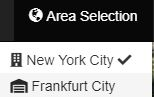
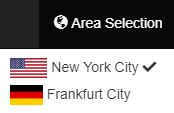
Clean Clear + New Tutorial

diff --git a/public/index.html b/public/index.html
@@ -87,20 +87,20 @@
         <!-- Collect the nav links, forms, and other content for toggling -->
         <div class="collapse navbar-collapse" id="bs-example-navbar-collapse-1">
             <ul class="nav navbar-nav navbar-right" style="margin-right: 10px;">
-                
+
                 <li class="dropdown">
                     <a class="dropdown-toggle" data-toggle="dropdown" href="#">
                         <span class="glyphicon glyphicon-globe" class="caret"></span> Area Selection</a>
                     <ul class="dropdown-menu">
                         <li onclick="Area_NYC_Select()">
                             <a href="#">
-                                <i class="fas fa-building"></i> New York City
+                                    <img src="images/usa-flag-xs.png" height="20px"> New York City
                                 <i class="fas fa-check" id="newYorkCheck"></i>
                             </a>
                         </li>
                         <li onclick="Area_FF_Select()">
                             <a href="#">
-                                <i class="fas fa-warehouse"></i> Frankfurt City
+                                <img src="images/germany-flag-xs.png" height="20px">  Frankfurt City
                                 <i class="fas fa-check" id="FrankfurtCheck" style="display: none"></i>
                             </a>
                         </li>
@@ -120,15 +120,15 @@
                         <span class="glyphicon glyphicon-stats"></span> Show Statistic </a>
                 </li>
                 <li onclick="openDialog()" title="Add new tree">
-                        <a href="#">
-                            <span class="glyphicon glyphicon-plus" class="caret"></span> Add Tree</a>
-                    </li>
+                    <a href="#">
+                        <span class="glyphicon glyphicon-plus" class="caret"></span> Add Tree</a>
+                </li>
                 <li onclick="Info()" title="help">
-                        <a href="#">
-                            <span class="glyphicon glyphicon-question-sign"></span> Tutorial
-                        </a>
-                    </li>
-                    
+                    <a href="#">
+                        <span class="glyphicon glyphicon-question-sign"></span> Tutorial
+                    </a>
+                </li>
+
                 <li id="clear-button" onclick="Clearall()" title="With a click here you can clear your tree selection">
                     <a href="#">
                         <span class="glyphicon glyphicon-remove"></span> Clear Map </a>
@@ -372,11 +372,17 @@
     </div>
     <!-- new Tutorial -->
     <div id="Info" title="Smart Pollen Monitoring - Tutorial">
-        <h4>
-            <b>
-                <span class="glyphicon glyphicon-globe" class="caret"></span> Area Selection</b>
-        </h4>
-        <p>
+            <div class="alert JojoeBadge"><b>Tip:</b> Please, select a topic to show tutorial contents.</div>
+        
+        <a onclick="Tutorial_AreaSelection_pop()" style="cursor: pointer;">
+            <h4>
+                <b>
+                    <span class="glyphicon glyphicon-globe" class="caret"></span>
+                    Area Selection
+                </b>
+            </h4>
+        </a>
+        <p id="Tutorial_AreaSelection" style="display:none">
             From the
             <b>Area Selection</b> menu, you can select the available areas which in the current version are "New York city,
             USA" or "Frankfurt city, Germany".
@@ -384,11 +390,15 @@
             <img src="images/Tutorial/AreaSelection.JPG" style="border-radius: 15px; height: 100px;">
         </p>
         <hr>
-        <h4>
-            <b>
-                <span class="glyphicon glyphicon-tree-deciduous"></span> Pollen Simulation</b>
-        </h4>
-        <p>
+        <a onclick="Tutorial_PollenSimulation_pop()" style="cursor: pointer;">
+            <h4>
+                <b>
+                    <span class="glyphicon glyphicon-tree-deciduous"></span>
+                    Pollen Simulation
+                </b>
+            </h4>
+        </a>
+        <p id="Tutorial_PollenSimulation" style="display:none">
             <b>Step.1</b> Select the
             <b>Pollen Simulation</b> menu and then select your desired mode between Real-time mode or Historical mode. If you
             select Historical mode, you are able to choose the month for display the pollen.
@@ -416,26 +426,64 @@
             <br />
         </p>
         <hr>
-        <h4>
-            <b>
-                <span class="glyphicon glyphicon-plus" class="caret"></span> Add Tree</b>
-        </h4>
-        <p>You can help expanding the application database by adding more trees. To do this, click on the
-            <b>Add tree</b> menu. Then, a pop-up window will be opened and allows you to add a tree information. To get the coordinates, you can just
-            click at the specific point in the map or type it in manually.</p>
+        <a onclick="Tutorial_Navigation_pop()" style="cursor: pointer;">
+            <h4>
+                <b>
+                    <span class="glyphicon glyphicon-map-marker"></span>
+                    Navigation
+                </b>
+            </h4>
+        </a>
+        <p id="Tutorial_Navigation" style="display:none">
+                <b>Step.1</b> Select the
+                <b>Navigation</b> menu and then select your desired mode: Walking Mode (Google API)/ Biking Mode (Google API)/ Walking Mode (PG-routing)/ Walking Mode (PG-routing avoid pollen)
+                <br>
+                <b>Step.2</b> Then, please type-in your desired starting and ending point. Then, the navigation result will shown on the globe. 
+                <img src="images/AppDemo/Navigation.JPG" style="border-radius: 5px; width: 100%;">
+                <br> <b>Step.3</b> You can click on the globe to zoom in and display the pollen dispersal along your route.
+                <br> <b>Step.3</b> You can close the navigated route by click on the <b>Remove</b> button or <b>Clear Map</b> button on the navigation bar.
+        </p>
         <hr>
-        <h4>
-            <b>
-                <span class="glyphicon glyphicon-remove"></span> Clear Map</b>
-        </h4>
-        <p>A click on
-            <img src="images/help6.png" alt="help6" style="width:46px;height:20px;"> will clear the map and your previous selection. You have to apply new selection to display pollen analysis again.</p>
-        <h4>
-            <b>
-                <span class="glyphicon glyphicon-stats"></span> Show Statistic</b>
-        </h4>
-        <p>The Statistic will automatically display after the tree selection, or when you click this
-            <img src="images/help5.png" alt="help5" style="width:59px;height:20px;"> button. The Statistic shows you in which month your selected Trees are blooming.</p>
+
+        <a onclick="Tutorial_AddTree_pop()" style="cursor: pointer;">
+            <h4>
+                <b>
+                    <span class="glyphicon glyphicon-plus" class="caret"></span> Add Tree
+
+                </b>
+            </h4>
+        </a>
+        <p id="Tutorial_AddTree" style="display:none">
+            You can help expanding the application database by adding more trees. To do this, click on the
+            <b>Add tree</b> menu. Then, a pop-up window will be opened and allows you to add a tree information. To get the
+            coordinates, you can just click at the specific point in the map or type it in manually.
+        </p>
+        <hr>
+        <a onclick="Tutorial_ClearMap_pop()" style="cursor: pointer;">
+            <h4>
+                <b>
+                    <span class="glyphicon glyphicon-remove" class="caret"></span> Clear Map
+
+                </b>
+            </h4>
+        </a>
+        <p id="Tutorial_ClearMap" style="display:none">
+            A click on
+            <b>Clear Map</b> menu will clear pollen dispersals, navigation and your previous selection. You have to apply new
+            selection to display new pollen dispersal analysis again.</p>
+        <hr>
+        <a onclick="Tutorial_ShowStatistic_pop()" style="cursor: pointer;">
+            <h4>
+                <b>
+                    <span class="glyphicon glyphicon-stats" class="caret"></span> Show Statistic
+
+                </b>
+            </h4>
+        </a>
+        <p id="Tutorial_Statistic" style="display:none">
+            The Statistic will automatically display after the tree selection, or when you click on the
+            <b>Statistic</b> menu. The Statistic chart shows you in which month your selected Trees are blooming.
+        </p>
     </div>
     <div class="col-sm-9" id="globe">
         <canvas id="canvasOne" style="cursor: pointer;">
@@ -549,7 +597,86 @@
             });
 
         });
+        var Tutorial_AreaSelection_pop = function () {
+            if ($('#Tutorial_AreaSelection').is(':visible')) {
+                $("#Tutorial_AreaSelection").hide("3000");
+            } else {
+                $("#Tutorial_AreaSelection").show("3000");
+                $("#Tutorial_PollenSimulation").hide("3000");
+                $("#Tutorial_Navigation").hide("3000")
+                $("#Tutorial_AddTree").hide("3000");
+                $("#Tutorial_ClearMap").hide("3000");
+                $("#Tutorial_Statistic").hide("3000");
+            }
+        }
+        var Tutorial_PollenSimulation_pop = function () {
+            if ($('#Tutorial_PollenSimulation').is(':visible')) {
+                $("#Tutorial_PollenSimulation").hide("3000");
+            } else {
+                $("#Tutorial_PollenSimulation").show("3000");
+                $("#Tutorial_AreaSelection").hide("3000");
+                $("#Tutorial_Navigation").hide("3000")
+                $("#Tutorial_AddTree").hide("3000");
+                $("#Tutorial_ClearMap").hide("3000");
+                $("#Tutorial_Statistic").hide("3000");
+            }
 
+
+        }
+        var Tutorial_Navigation_pop = function () {
+            if ($('#Tutorial_Navigation').is(':visible')) {
+                $("#Tutorial_Navigation").hide("3000");
+            } else {
+                $("#Tutorial_Navigation").show("3000");
+                $("#Tutorial_AreaSelection").hide("3000");
+                $("#Tutorial_PollenSimulation").hide("3000")
+                $("#Tutorial_AddTree").hide("3000");
+                $("#Tutorial_ClearMap").hide("3000");
+                $("#Tutorial_Statistic").hide("3000");
+            }
+        }
+        var Tutorial_AddTree_pop = function () {
+            if ($('#Tutorial_AddTree').is(':visible')) {
+                $("#Tutorial_AddTree").hide("3000");
+            } else {
+                $("#Tutorial_AddTree").show("3000");
+                $("#Tutorial_AreaSelection").hide("3000");
+                $("#Tutorial_PollenSimulation").hide("3000")
+                $("#Tutorial_Navigation").hide("3000");
+                $("#Tutorial_ClearMap").hide("3000");
+                $("#Tutorial_Statistic").hide("3000");
+            }
+
+
+        }
+        var Tutorial_ClearMap_pop = function () {
+
+            if ($('#Tutorial_ClearMap').is(':visible')) {
+                $("#Tutorial_ClearMap").hide("3000");
+            }
+            else {
+                $("#Tutorial_ClearMap").show("3000");
+                $("#Tutorial_AreaSelection").hide("3000");
+                $("#Tutorial_PollenSimulation").hide("3000")
+                $("#Tutorial_Navigation").hide("3000");
+                $("#Tutorial_AddTree").hide("3000");
+                $("#Tutorial_Statistic").hide("3000");
+            }
+        }
+        var Tutorial_ShowStatistic_pop = function () {
+            if ($('#Tutorial_Statistic').is(':visible')) {
+                $("#Tutorial_Statistic").hide("3000");
+            } else {
+                $("#Tutorial_Statistic").show("3000");
+                $("#Tutorial_AreaSelection").hide("3000");
+                $("#Tutorial_PollenSimulation").hide("3000")
+                $("#Tutorial_Navigation").hide("3000");
+                $("#Tutorial_AddTree").hide("3000");
+                $("#Tutorial_ClearMap").hide("3000");
+            }
+
+
+        }
 
     </script>
 

diff --git a/public/javascripts/select_joe.js b/public/javascripts/select_joe.js
@@ -466,6 +466,7 @@ function Clearall() {
 	histrec = 2;
 	navMenu.style.display = "none";
 	pollenMenu.style.display = "none";
+	removeNav();
 treetrans = [];
 $("#pollenPieChart").hide("3000");
 
